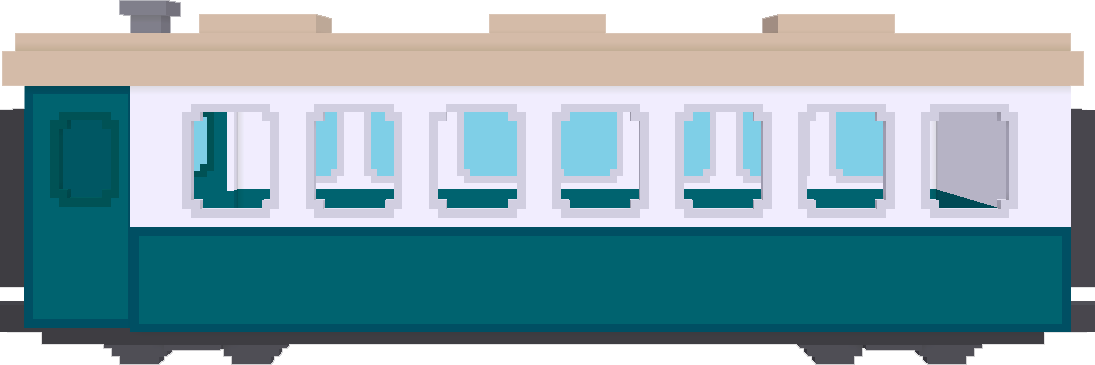
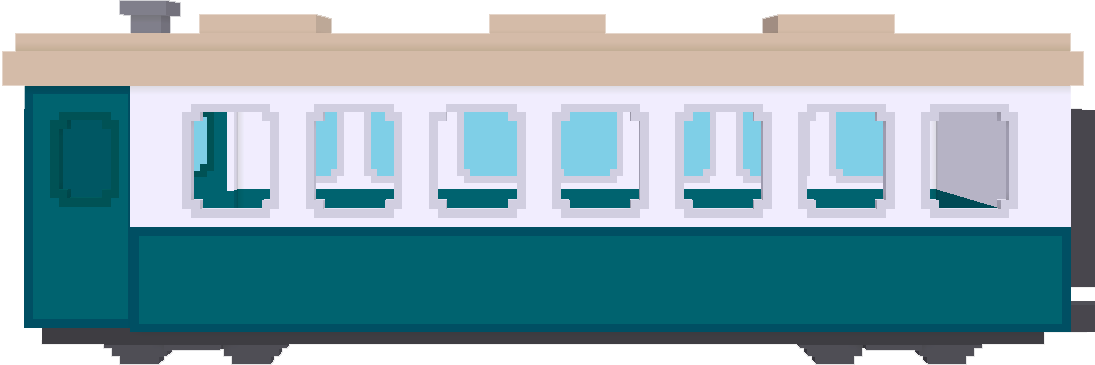
Added engine and caboose assets to cc

Changed region(s): [[0.0, 0.2712, 0.0311, 0.9342]]

diff --git a/public/CabooseCount/src/Res.js b/public/CabooseCount/src/Res.js
@@ -21,7 +21,7 @@ const images = {
   background5: "res/background5.png",
   floor: "res/floor.png",
   engine: "res/floor_background.png",
-  car: "res/floor_background.png",
+  car: "res/car.png",
   caboose: "res/floor_background.png",
   passenger1: "res/player.png",
   passenger2: "res/air_obstacle1.png",

diff --git a/public/CabooseCount/src/models/Car.js b/public/CabooseCount/src/models/Car.js
@@ -3,7 +3,7 @@ class Car extends Model {
     super(image, x, y);
 
     this.yv = 0;
-    this.xv = 20;
+    this.xv = 15;
     this.seats = seats;
     this.passengers = [];
     this.numPassengers = 0;
